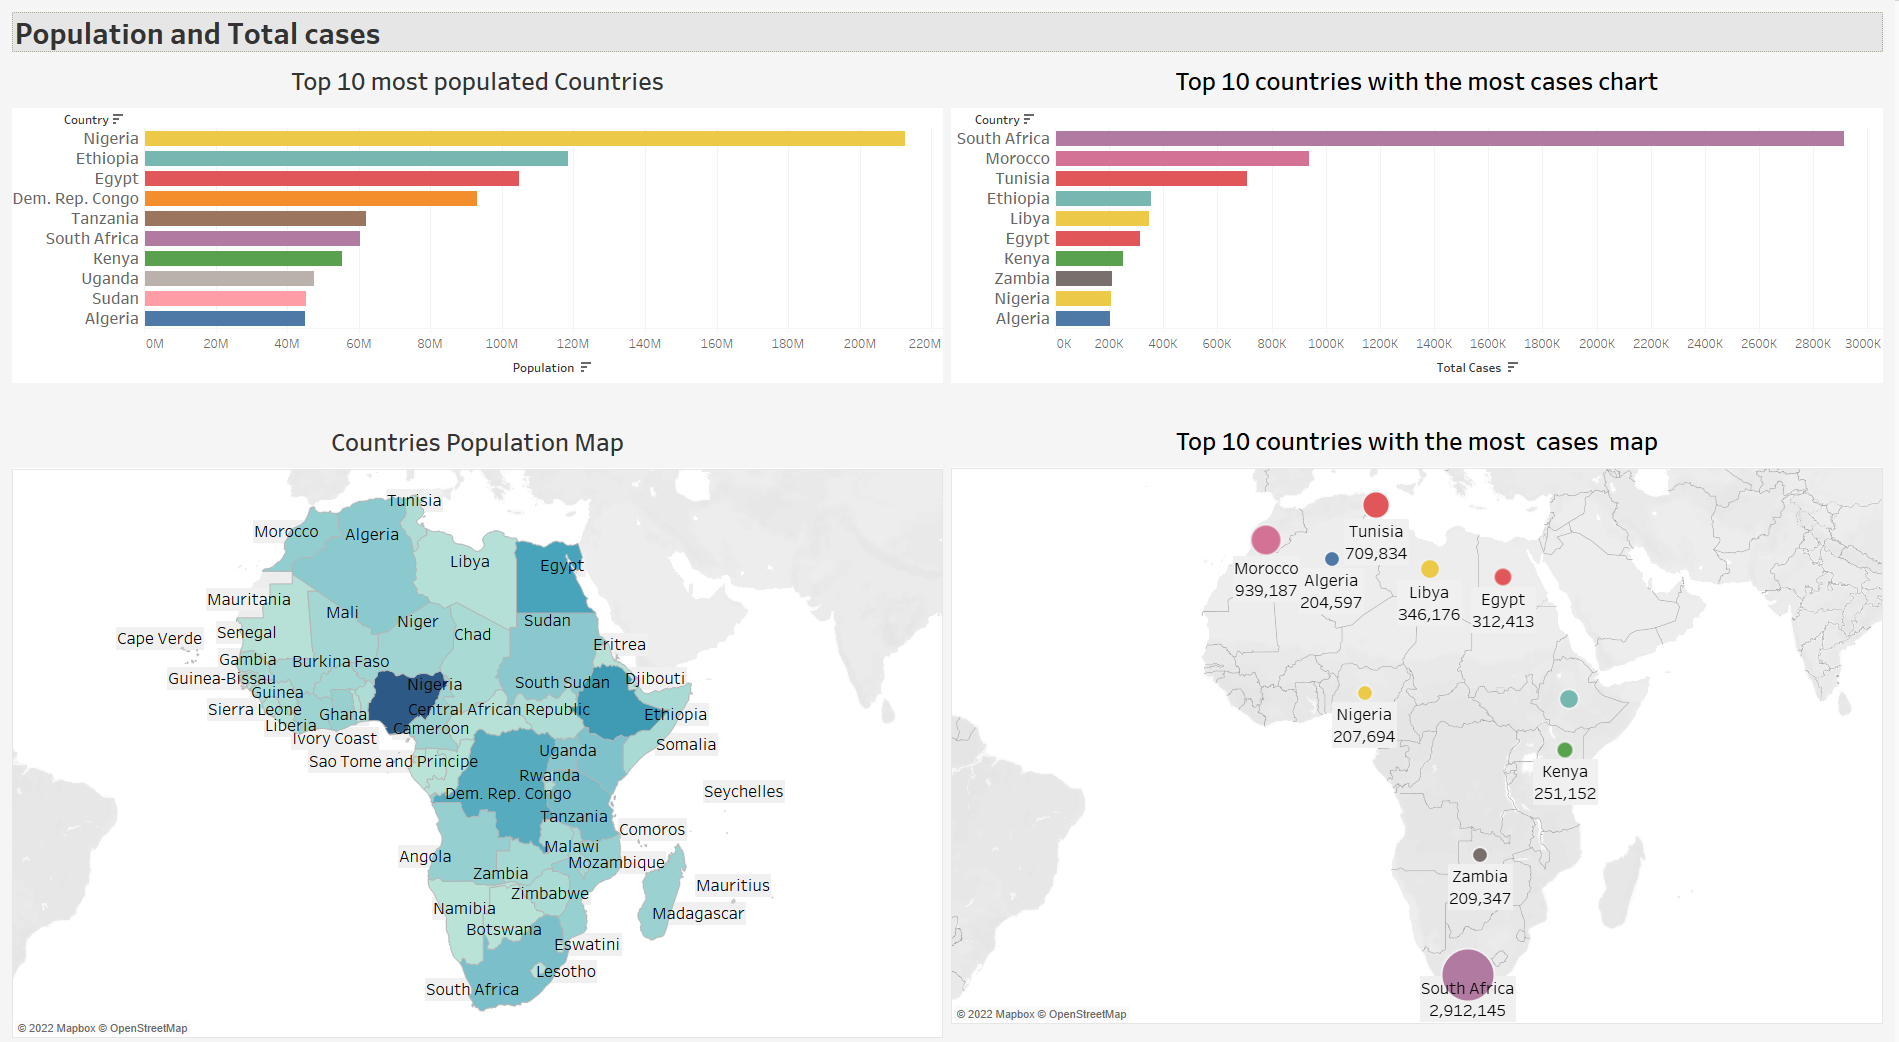
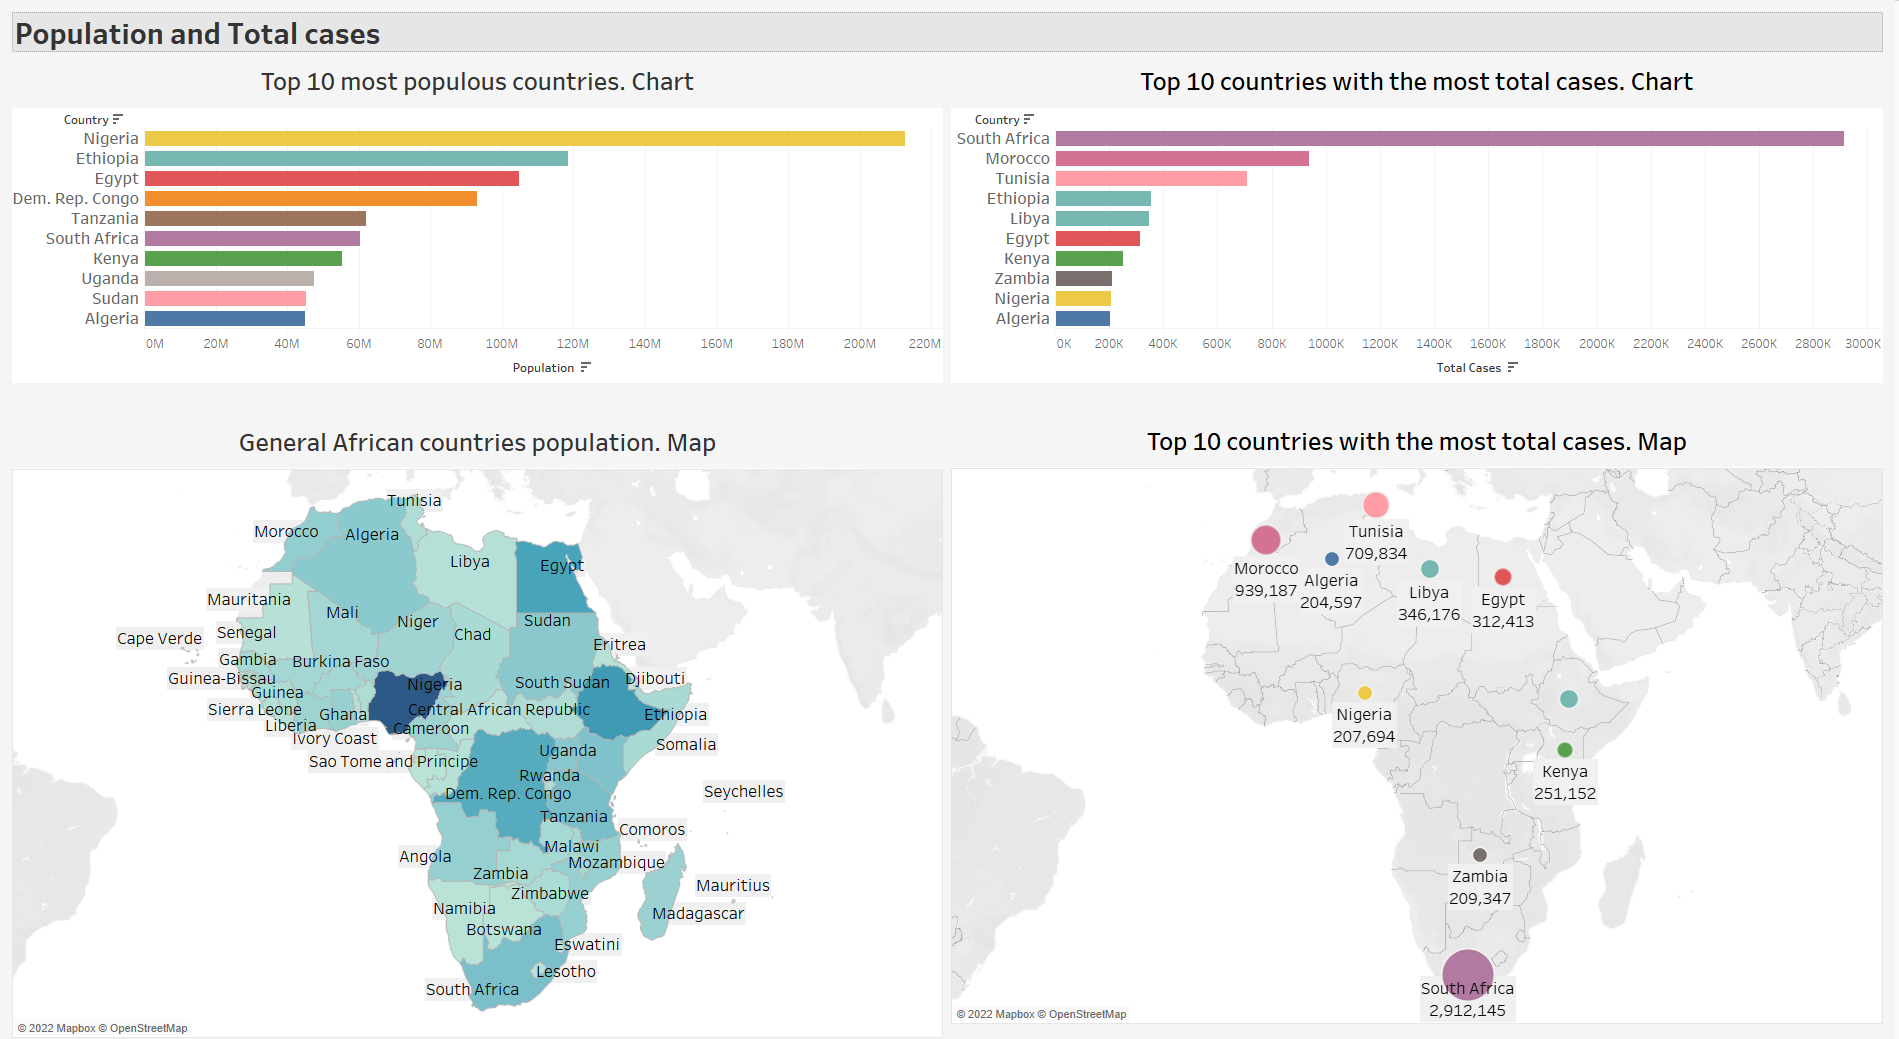
improvement 1.0

diff --git a/README.md b/README.md
@@ -7,7 +7,7 @@ This project examines perceptions, insights and finding out the main features of
 - [“African Covid cases”](https://www.kaggle.com/datasets/johnfisayo/african-covid-cases)
 - [“Coronavirus (COVID-19) Vaccination in Africa”](https://www.kaggle.com/datasets/malcolm95/covid19-vaccination-in-africa)
 
-*Both were released in 2021*
+*Both were published in 2021*
 
 ## Questions
 
@@ -15,8 +15,8 @@ This project examines perceptions, insights and finding out the main features of
 - Do more people get infected in countries with larger populations?
 - Do the countries with more cases have more deaths?
 - Do the countries where more tests are conducted show more cases?
-- Do countries located in nearby areas have a similar number of cases?* In order to answer this question, most of the visualizations include Tableau maps.
-- Does vaccination influence a decrease or health improvement?
+- Do the countries close to each other have similar infection levels or number of cases?* In order to answer this question, most of the visualizations include Tableau maps.
+- Does vaccination cause a decrease in infections and a health improvement?
 
 ## Tools
 
@@ -36,11 +36,11 @@ This project examines perceptions, insights and finding out the main features of
 
 ![Finding main ratios and general information](tableau_dashboards/1_general_info_ratios.png)
 
-2. Top 10 most populated countries and Top 10 countries with the most cases
+2. Top 10 most populous countries and Top 10 countries with the most total cases
 
-![Top 10 most populated countries and Top 10 countries with the most Covid-19 cases in Africa](tableau_dashboards/2_top_population_top_cases.png)
+![Top 10 most populous countries and the most total cases](tableau_dashboards/2_top_population_top_cases.png)
 
-3. Top 10 countries with the most highest number of deaths and Top 10 countries with the highest number of total tests
+1. Top 10 countries with the most highest number of deaths and Top 10 countries with the highest number of total tests
 
 ![Top 10 most deaths and test](tableau_dashboards/3_top_deaths_tests.png)
 
@@ -58,6 +58,6 @@ This project examines perceptions, insights and finding out the main features of
 
 7. Further analysis on ratios
 
-The parameters for comparison with World average were taken from this article [Covid19 in Africa and Clustering](https://www.kaggle.com/code/sasakitetsuya/covid19-in-africa-eda-and-clustering), dataset released in 2021 too. This is a secondary source. The primary source is informed in the above mentioned analysis
+The parameters for comparison with World average were taken from this article [Covid19 in Africa and Clustering](https://www.kaggle.com/code/sasakitetsuya/covid19-in-africa-eda-and-clustering), dataset published in 2021 too. Please note that this is a secondary source. The primary source is informed in the above mentioned article.
 
 ![Further analysis on ratios](tableau_dashboards/7_further_ratios.png)
